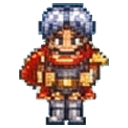
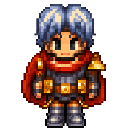
Add fighter walking sprite

diff --git a/src/entity/Entity.ts b/src/entity/Entity.ts
@@ -7,6 +7,13 @@
  */
 
 export class Entity {
+    public static readonly WALK_ROW_BY_FACING: Record<'up' | 'down' | 'left' | 'right', number> = {
+        down: 0,
+        up: 1,
+        left: 2,
+        right: 3,
+    };
+
     public id: string;
     public gridX: number;
     public gridY: number;
@@ -21,13 +28,14 @@ export class Entity {
     /** Optional static portrait image (128x128 single illustration) */
     public image?: HTMLImageElement;
     public imageLoaded: boolean = false;
-    /** Optional 1-row walking sprite sheet used only while this entity is moving */
+    /** Optional walking sprite sheet used only while this entity is moving */
     public walkSprite?: {
         image: HTMLImageElement;
         frameWidth: number;
         frameHeight: number;
         frameCount: number;
         framesPerSecond: number;
+        rowByFacing: Record<'up' | 'down' | 'left' | 'right', number>;
     };
     public walkSpriteLoaded: boolean = false;
 
@@ -65,10 +73,17 @@ export class Entity {
         this.image.src = src;
     }
 
-    public setWalkSprite(src: string, frameWidth: number, frameHeight: number, frameCount: number, framesPerSecond: number = 8): void {
+    public setWalkSprite(
+        src: string,
+        frameWidth: number,
+        frameHeight: number,
+        frameCount: number,
+        framesPerSecond: number = 8,
+        rowByFacing: Record<'up' | 'down' | 'left' | 'right', number> = Entity.WALK_ROW_BY_FACING
+    ): void {
         const image = new Image();
         this.walkSpriteLoaded = false;
-        this.walkSprite = { image, frameWidth, frameHeight, frameCount, framesPerSecond };
+        this.walkSprite = { image, frameWidth, frameHeight, frameCount, framesPerSecond, rowByFacing };
         image.onload = () => { this.walkSpriteLoaded = true; };
         image.onerror = () => {
             this.walkSpriteLoaded = false;

diff --git a/src/engine/world/WorldFieldSpawnController.ts b/src/engine/world/WorldFieldSpawnController.ts
@@ -41,7 +41,7 @@ export class WorldFieldSpawnController {
                 entity.setImage(character.portraitImage?.src || '/Image/Character/fighter.png');
             }
             if (character.classLineId === 'infantry' && character.currentTier === 1) {
-                entity.setWalkSprite('/Image/Character/fighter_walk.png', 128, 128, 4, 8);
+                entity.setWalkSprite('/Image/Character/fighter_walk_4_compact.png', 128, 128, 4, 8);
             }
             return {
                 id: character.id,

diff --git a/src/engine/world/WorldFieldRenderer.ts b/src/engine/world/WorldFieldRenderer.ts
@@ -283,7 +283,7 @@ function renderWalkSprite(ctx: CanvasRenderingContext2D, entity: Entity, worldTi
     ctx.drawImage(
         sprite.image,
         frame * sprite.frameWidth,
-        0,
+        sprite.rowByFacing[entity.facing] * sprite.frameHeight,
         sprite.frameWidth,
         sprite.frameHeight,
         px,
